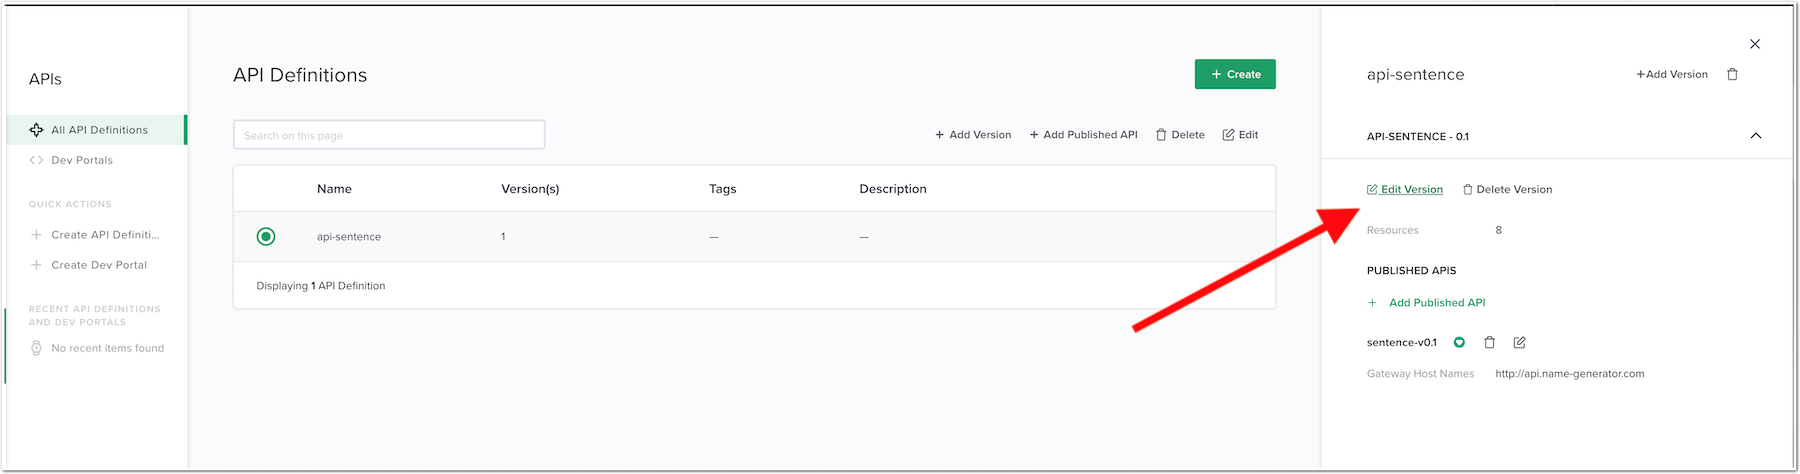
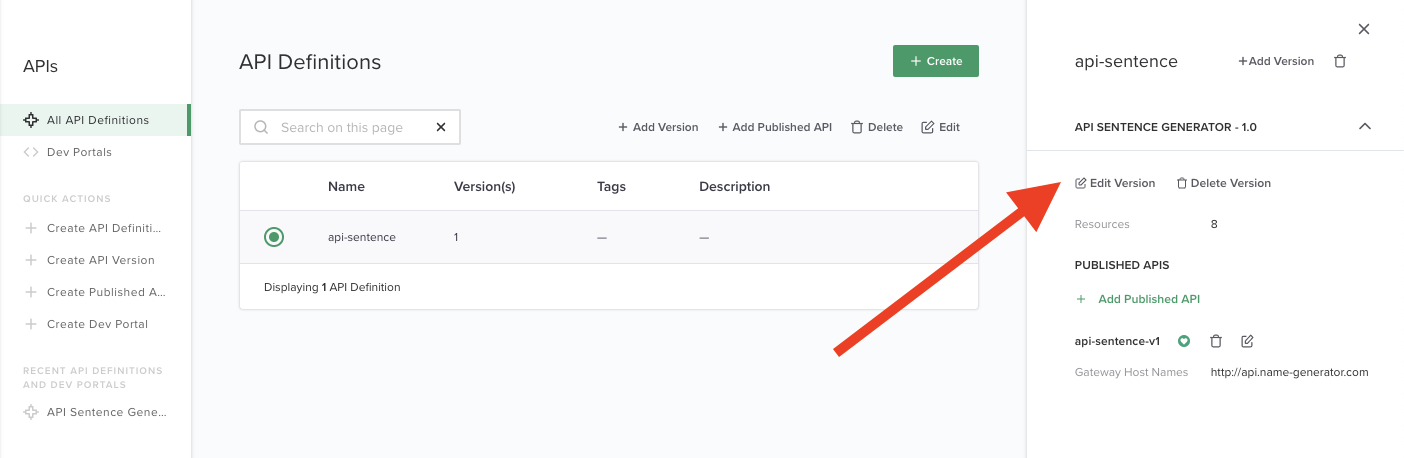
fixes for sprint2.0

diff --git a/docs/class6/module4/lab1/lab1.rst b/docs/class6/module4/lab1/lab1.rst
@@ -43,10 +43,13 @@ Configure ``Keycloak`` as a JWT OIDC token issuer
    .. image:: ../pictures/lab1/users.png
       :align: center
 
-   .. note:: You should see 2 users, ``matt`` (password ``matt`)`, and ``fouad`` (password ``fouad``). At this stage, these users do not have any attributes assigned.
+   .. note:: You should see 2 users, ``matt`` (password ``matt``), and ``fouad`` (password ``fouad``). At this stage, these users do not have any attributes assigned.
 
 #. Click on the ``matt`` ID to edit it.
 #. In the ``Attributes`` tab, add a new key ``groups`` with value ``employee``.
+
+   .. warning:: Don't miss the ``S`` at the end of ``groups``. 
+
 #. Click ``Add`` -> Click ``Save``
 
    .. warning:: You need to click on ``Add`` to add the attribute, and on ``Save`` to save the user settings.
@@ -58,16 +61,17 @@ Configure ``Keycloak`` as a JWT OIDC token issuer
     #. Click on ``Client Scopes`` -> ``Create``
     #. Name the scope ``groups`` -> Click ``Save`` -> Click the ``Mappers`` tab -> Click ``Create``
     #. Create a new mapper. Use the following values:
-       #. Name: ``groups``
-       #. Mapper Type: ``User Attribute``
-       #. User Attribute: ``groups``
-       #. Token Claim Name: ``groups``
-       #. Claim JSON Type: ``String``
-       #. Add to ID token: ``ON``
-       #. Add to access token: ``ON``
-       #. Add to userinfo: ``ON``
-       #. Multivalued: ``OFF``
-       #. Aggregate attribute values: ``OFF``
+
+       * Name: ``groups``
+       * Mapper Type: ``User Attribute``
+       * User Attribute: ``groups``
+       * Token Claim Name: ``groups``
+       * Claim JSON Type: ``String``
+       * Add to ID token: ``ON``
+       * Add to access token: ``ON``
+       * Add to userinfo: ``ON``
+       * Multivalued: ``OFF``
+       * Aggregate attribute values: ``OFF``
 
        .. image:: ../pictures/lab1/mapper.png
           :align: center
@@ -97,6 +101,9 @@ Configure ``Keycloak`` as a JWT OIDC token issuer
 
     #. Move back to the ``Evaluate`` sub-menu and check that ``matt`` now has a ``groups: employee`` attribute value
 
+       .. image:: ../pictures/lab1/claim_groups.png
+          :align: center
+
 .. warning :: Congrats! We are now ready to configure NGINX Controller to check the groups claim values and conditionally grant access to our API endpoints.
 
 |
@@ -104,7 +111,7 @@ Configure ``Keycloak`` as a JWT OIDC token issuer
 Create an Identity Provider in NGINX Controller
 ===============================================
 
-A JWT token is a readable token signed by a public/private key workflow. ``Keycloak`` (or any other Oauth AS) provide you with either a private secret key or a JWKS url.
+A JWT token is a readable token signed by a public/private key workflow. ``Keycloak`` (or any other Oauth AS) provides you with either a private secret key or a JWKS url.
 
 A JWKS url is a public URL to retrieve and download the public keys used to sign the JWT token. The Keycloak JWKS url is http://10.1.1.8:8080/auth/realms/api-app/protocol/openid-connect/certs, and the content looks like:
 
@@ -129,12 +136,14 @@ A JWKS url is a public URL to retrieve and download the public keys used to sign
         ]
     }
 
-#. In NGINX Controller -> Select ```Services`` -> ``Identity Providers`` -> ``Create Identity Provider``. Use the following values:
-   #. Name: ``keycloak``
-   #. Environment: ``env_prod``
-   #. Type: ``JWT``
-   #. JWT Settings: ``Enter a URL for the file's location``
-   #. URL: ``http://10.1.1.8:8080/auth/realms/api-app/protocol/openid-connect/certs``
+#. In NGINX Controller -> Select ``Services`` -> ``Identity Providers`` -> ``Create Identity Provider``. Use the following values:
+   
+   * Name: ``keycloak``
+   * Environment: ``env_prod``
+   * Type: ``JWT``
+   * JWT Settings: ``Enter a URL for the file's location``
+   * URL: ``http://10.1.1.8:8080/auth/realms/api-app/protocol/openid-connect/certs``
+
 #. Click ``Submit``
 
 .. image:: ../pictures/lab1/idp.png
@@ -145,7 +154,7 @@ A JWKS url is a public URL to retrieve and download the public keys used to sign
 Add authentication to the ``/colors`` API endpoint
 ==================================================
 
-#. In NGINX Controller -> Select ``APIs`` -> ``api-sentence`` -> Edit the ``api-sentence-v3`` published API
+#. In NGINX Controller -> Select ``Services`` (from top left Nginx menu) -> ``APIs`` -> ``api-sentence`` -> Edit the ``api-sentence-v3`` published API
 
    .. image:: ../pictures/lab1/edit_auth_colors.png
       :align: center
@@ -161,9 +170,13 @@ Add authentication to the ``/colors`` API endpoint
       :align: center
 
 #. Use the following values:
-   #. Identity Provider: ``Keycloak``
-   #. Credential Location: ``BEARER``
-   . note:: This setting means that the JWT token is expected to be present in the ``Authorization: Bearer`` HTTP header
+
+   * Identity Provider: ``keycloak``
+   * Credential Location: ``BEARER``
+   
+   .. note:: This setting means that the JWT token is expected to be present in the ``Authorization: Bearer`` HTTP header
+
+#. Click ``Done``
 #. Click ``Submit`` -> ``Submit`` again to validate the config and push it to the NGINX instance.
 
 .. note:: We have not enabled ``conditional access`` for now.
@@ -199,7 +212,7 @@ Add conditional access to the ``/colors`` API endpoint
 
 The next step is to add Conditional Access for employee users only. This way, any JWT token without the claim ``groups`` and the value ``employee`` can't reach the ``/colors`` API Endpoint.
 
-#. In NGINX Controller -> Select ``APIs`` -> ``api-sentence`` -> Edit the ``api-sentence-v3`` published API.
+#. In NGINX Controller -> Select ``Services`` (from top left Nginx menu) -> Select ``APIs`` -> ``api-sentence`` -> Edit the ``api-sentence-v3`` published API.
 #. In the ``Routing`` menu, edit the ``Authentication`` setting for the ``cp-colors-v3`` component.
 #. Turn on ``Enable Conditional Access``.
 
@@ -207,12 +220,13 @@ The next step is to add Conditional Access for employee users only. This way, an
       :align: center
 
 #. Configure it so that only a JWT with a ``group: employee`` claim is allowed. Use the following values:
-   #. Policy Type: ``Allow when``
-   #. Source Data Type: ``JWT claim``
-   #. Source Data Value: ``groups``
-   #. Comparison Type: ``Contains``
-   #. Value: ``employee``
-   #. Failure Response: ``403``
+
+   * Policy Type: ``Allow when``
+   * Source Data Type: ``JWT claim``
+   * Source Data Value: ``groups``
+   * Comparison Type: ``Contains``
+   * Value: ``employee``
+   * Failure Response: ``403``
 
    .. image:: ../pictures/lab1/cond_access2.png
       :align: center

diff --git a/docs/class6/module3/lab1/lab1.rst b/docs/class6/module3/lab1/lab1.rst
@@ -18,7 +18,7 @@ Steps to publish version 1.0 of the API
 Create the API Definition
 =========================
 
-#. In NGINX Controller, select ``Home`` (the NGINX logo on the top left corner) -> ``APIs`` -> ``Create API Version``:
+#. In NGINX Controller, select ``Home`` (the NGINX logo on the top left corner) -> ``Services`` -> ``APIs`` -> ``Create API Version``:
 
    #. First, you will need to create an ``API Definition``. To do so, click on ``CREATE NEW`` under the API Definition box (which is empty):
 
@@ -61,12 +61,15 @@ Create a Published API for v1.0
         #. Name: ``cp-generator``
         #. Click ``Next``
         #. In ``Workload Groups``:
-            #. Name: ``wl-generator``
-            #. In ``Backend Workload URIs``:
-               #. URI: ``http://10.1.20.8:31200``
-               .. note:: This URL is the FQDN and the NodePort used by the micro-service running in the K3S.
-               #. Click ``Done``
-            #. Click ``Done``
+            * Name: ``wl-generator``
+            * In ``Backend Workload URIs``:
+            
+               * URI: ``http://10.1.20.8:31200``
+               
+                  .. note:: This URL is the FQDN and the NodePort used by the micro-service running in the K3S.
+               
+               * Click ``Done``
+            * Click ``Done``
         #. Click ``Next``
 
            .. image:: ../pictures/lab1/component-generator.png
@@ -74,7 +77,7 @@ Create a Published API for v1.0
 
         #. Click ``Submit``
 
-    #. We now have to replicate the same steps for each other micro-service
+    #. We now have to replicate the same steps for each other of the micro-services
 
        .. list-table:: List of all micro-services and their component configuration
           :header-rows: 1
@@ -102,7 +105,7 @@ Create a Published API for v1.0
 
     #. You should now have a list of 4 empty ``components``.
     #. On the left side, under ``Unrouted`` you can see every API ``Path`` imported from the OAS spec file.
-    #. Drag and drop each unrouted API ``Path`` (shown as a ``resource`` here) to the right ``component``.
+    #. Drag and drop each unrouted API ``Path`` (shown as a ``resource`` here) to the ``corresponding component``.
 
        .. image:: ../pictures/lab1/routing.png
           :align: center
@@ -115,6 +118,8 @@ Create a Published API for v1.0
 |
 
 .. note:: API v1.0 is now published, and we can now check if it is working as expected.
+
+|
 
 Test the v1.0 API deployment
 ============================

diff --git a/docs/class6/module3/lab3/lab3.rst b/docs/class6/module3/lab3/lab3.rst
@@ -1,5 +1,5 @@
 Step 6 - Publish API v3.0
-###############################
+#########################
 
 The API Dev has now modified an existing endpoint. They modified the ``Locations`` micro-service in order to add a new JSON object for the coordinates of the location.
 
@@ -52,13 +52,14 @@ Let's deploy the ``Locations`` v3.0 micro-service!
 Create version 3.0 for the existing API Definition
 ====================================================
 
-#. Connect to NGINX Controller, select your API Definition ``api-sentence``, and on the top right corner select ``Add Version``.
+#. Connect to NGINX Controller, and enter in the APIs configuration section (Top left Nginx Logo menu -> Services -> APIs)
+#. Select your API Definition ``api-sentence``, and on the top right corner select ``Add Version``.
 
    .. image:: ../pictures/lab3/addversion.png
       :align: center
 
 #. Select ``OpenAPI Specification`` -> ``Copy and paste specification text``.
-#. Copy and paste the v2.0 OAS YAML content from https://app.swaggerhub.com/apis/F5EMEASSA/API-Sentence/3.0
+#. Copy and paste the v3.0 OAS YAML content from https://app.swaggerhub.com/apis/F5EMEASSA/API-Sentence/3.0
 
    .. note:: You can notice the version is automatically set to ``3.0``
 
@@ -128,7 +129,7 @@ Publish version 3.0 of the API
         - wl-colors-v3
         - http://10.1.20.8:31102
 
-#. Drag and drop each ``Path`` resource to the right ``component``.
+#. Drag and drop each ``Path`` resource to the ``corresponding component``.
 
    .. image:: ../pictures/lab3/routingv3.png
       :align: center
@@ -136,6 +137,8 @@ Publish version 3.0 of the API
 #. Click ``Submit``
 
 #. Check if your ``Published API`` is green. If not, address any errors and re-submit.
+
+    .. note:: The flag can take some time to become GREEN (due to resources limitations in UDF). If the flag is RED, wait few seconds, and re-submit your changes (refresh the page too). 
 
    .. image:: ../pictures/lab3/green.png
       :align: center

diff --git a/docs/class6/module3/lab2/lab2.rst b/docs/class6/module3/lab2/lab2.rst
@@ -33,6 +33,9 @@ Let's deploy the ``Colors`` micro-service!
 #. RDP to the ``Win10`` VM (user/user).
 #. Check in ``Rancher`` (admin/admin) that the new ``Deployment`` has been successful (both the ``Deployment`` and ``Service``)
 
+   * Click on the ``Cluster Explorer`` yellow button on the top right corner.
+   * On the left menu, select ``Deployments``. From here, you can see the ``Deployments`` running in each ``NameSpace``
+
    .. image:: ../pictures/lab2/rancher-deploy-colors.png
       :align: center
 
@@ -46,7 +49,7 @@ Let's deploy the ``Colors`` micro-service!
 
 .. warning:: Why is the Frontend publishing the ``Colors`` micro-service whereas the API Gateway is not yet configured with this new endpoint?
 
-   The reason is that the Frontend is **directly connected** to all k8s micro-services. This is an East/West communication. Our NGINX API Gateway is publishing the API externally for other consumers (mobile app, partners...).
+   The reason is that the Frontend is **directly connected** to all k8s micro-services. This is an ``Front to Back`` communication. Our NGINX API Gateway is publishing the API externally for other consumers (mobile app, partners...).
 
 |
 
@@ -68,7 +71,7 @@ Update the API Definition to version 2.0
 
 #. Click ``Submit``
 
-   .. note:: You should now see two more resources` -> ``Resources: 10``
+   .. note:: You should now see two more resources -> ``Resources: 10``
 
       .. image:: ../pictures/lab2/10resources.png
          :align: center
@@ -91,11 +94,11 @@ Update the Published API with the new ``Colors`` endpoint
    #. Click ``Next``
    #. In ``Workload Groups``:
 
-      #. Name: ``wl-colors``
-      #. In ``Backend Workload URIs``:
-         #. URI: ``http://10.1.20.8:31102``
-         #. Click ``Done``
-      #. Click ``Done``
+      * Name: ``wl-colors``
+      * In ``Backend Workload URIs``:
+         * URI: ``http://10.1.20.8:31102``
+         * Click ``Done``
+      * Click ``Done``
 
    #. Click ``Next``
 

diff --git a/docs/class6/module4/lab3/lab3.rst b/docs/class6/module4/lab3/lab3.rst
@@ -80,6 +80,8 @@ Steps to configure NGINX App Protect as an API firewall
 
 #. Now, we have to configure NGINX's ``nginx.conf`` to use this NAP policy
 
+   .. note:: We have 2 options here. Either we change the default NAP policy directive from ``NginxDefaultPolicy.json`` to ``api-sentence.json``, or you we comment the ``NginxDefaultPolicy.json`` directive and add ``api-sentence.json`` directive. In the lab, we will replace ``NginxDefaultPolicy.json`` by ``api-sentence.json``.
+
    .. code-block:: bash
 
       sudo vi nginx.conf
@@ -144,8 +146,8 @@ Update the BIG-IP config to route incoming requests to NAP
 **********************************************************
 
 #. Login to the BIG-IP TMUI using ``admin`` as both the user and the password.
-#. Select ``Local Traffic`` -> ``Virtual Servers`` -> Edit the ``vs_api`` virtual server.
-#. Click on ``Resources`` -> Select ``pool-nap`` as the default pool.
+#. Select ``Local Traffic`` -> ``Virtual Servers`` -> ``Virtual Server List`` -> Edit the ``vs_api`` virtual server.
+#. Click on ``Resources`` tab -> Select ``pool-nap`` as the default pool, instead of ``pool-api-gw``
 #. Click ``Update``.
 
 Test your API Firewall
@@ -154,7 +156,7 @@ Test your API Firewall
 #. RDP to the ``Win10`` VM (user/user).
 #. Open ``Postman`` and the ``API Sentence Generator v3`` collection.
 #. Send any call and check that NAP is forwarding traffic to the API gateway
-#. Now, send an attack using the ``GET Locations v3 Attack`` request. The request is blocked and you can see the Violation Support ID.
+#. Now, send an attack using the ``GET Locations v3 Attack`` request. The request is blocked and you can see the Violation Support ID (your Violation Support ID will diffear from the one below).
 
    .. code-block:: json
 

diff --git a/docs/class6/module1/lab2/lab2.rst b/docs/class6/module1/lab2/lab2.rst
@@ -56,10 +56,11 @@ We have a YAML manifest file to deploy all the various API micro-services, ``att
        kubectl apply -f /home/ubuntu/k3s/generator-direct.yaml -n api
 
 #. RDP to the ``Win10`` VM. Login by using ``user`` as both the user and the password credentials (you will need to use an RDP client):
-   #. Open the ``Edge Browser`` and select the ``Rancher`` bookmark. If you get a ``Your connection isn't private`` warning, click ``Advanced`` -> ``Continue to <IP> (unsafe)``.
-   #. Login into the ``Rancher`` dashboard by using ``admin`` as both the user and the password credentials.
-   #. Click on the ``Cluster Explorer`` yellow button on the top right corner.
-   #. On the left menu, select ``Deployments``. From here, you can see the ``Deployments`` running in each ``NameSpace``:
+
+    * Open the ``Edge Browser`` and select the ``Rancher`` bookmark. If you get a ``Your connection isn't private`` warning, click ``Advanced`` -> ``Continue to <IP> (unsafe)``.
+    * Login into the ``Rancher`` dashboard by using ``admin`` as both the user and the password credentials.
+    * Click on the ``Cluster Explorer`` yellow button on the top right corner.
+    * On the left menu, select ``Deployments``. From here, you can see the ``Deployments`` running in each ``NameSpace``:
 
    .. image:: ../pictures/lab2/rancher-deployments.png
       :align: center

diff --git a/docs/class6/module5/lab1/lab1.rst b/docs/class6/module5/lab1/lab1.rst
@@ -19,6 +19,7 @@ Install the NGINX Controller agent on the second NGINX Plus instance
 #. Enter a ``Name``, e.g. ``devportal``.
 #. Check the box ``Allow insecure server connections to NGINX Controller using TLS``.
 #. Copy the ``curl commmand`` in the command box:
+
    .. code-block:: bash
 
       curl -k -sS -L https://10.1.20.4/install/controller-agent > install.sh && \
@@ -47,8 +48,10 @@ As a reminder, an instance cannot be used alone. It needs to be part of a NGINX 
 
 
 #. In NGINX Controller -> Select ``Home`` -> ``Services`` -> ``Gateways`` -> ``Create``. Use the following values:
-    #. Name: ``devportal-gw``
-    #. Environment: ``env_prod``
-    #. Placement: ``<your devportal instance>``
-    #. Hostnames: ``http://devportal.local``
+
+    * Name: ``devportal-gw``
+    * Environment: ``env_prod``
+    * Placement: ``<your devportal instance>``
+    * Hostnames: ``http://devportal.local``
+
 #. Click ``Submit``

diff --git a/docs/class6/module2/lab2/lab2.rst b/docs/class6/module2/lab2/lab2.rst
@@ -8,11 +8,12 @@ The instance is linked with NGINX Controller, but it needs to be configured as a
 Steps:
 
 #. In NGINX Controller -> Select ``Home`` (the NGINX logo on the top left corner) -> ``Services`` -> ``Gateways`` -> ``Create Gateway``. Use the following values:
-    #. Name: ``apigw``
-    #. Environment: ``env_prod``
-    #. Placement: ``<your nginx1 instance>``
-    #. Hostname: http://api.name-generator.com
-    #. Methods: ``POST``, ``GET``, ``PUT``, ``DELETE``, ``PATCH``
+  
+  * Name: ``apigw``
+  * Environment: ``env_prod``
+  * Placement: ``<your nginx1 instance>``
+  * Hostname: http://api.name-generator.com
+  * Methods: ``POST``, ``GET``, ``PUT``, ``DELETE``, ``PATCH``
 #. Click ``Submit``
 
     .. note:: The hostname value is the listener. This ``Gateway`` will be dedicated to the API FQDN, so we set this FQDN at the ``Gateway`` level.

diff --git a/docs/class6/module2/lab1/lab1.rst b/docs/class6/module2/lab1/lab1.rst
@@ -5,7 +5,7 @@ In order to link an NGINX Plus instance to NGINX Controller, we need to run the 
 
 Steps:
 
-#. Login to the NGINX Controller instance, use ``admin@nginx-udf.internal`` as your email and ``admin123!`` as your password.
+#. Login to the NGINX Controller instance by selecting ``Controller UI`` in UDF Access menu, use ``admin@nginx-udf.internal`` as your email and ``admin123!`` as your password.
 #. Select ``Add an existing instance``.
 
    .. note:: Your NGINX Plus instance already exists, we just need to link it with NGINX Controller.
